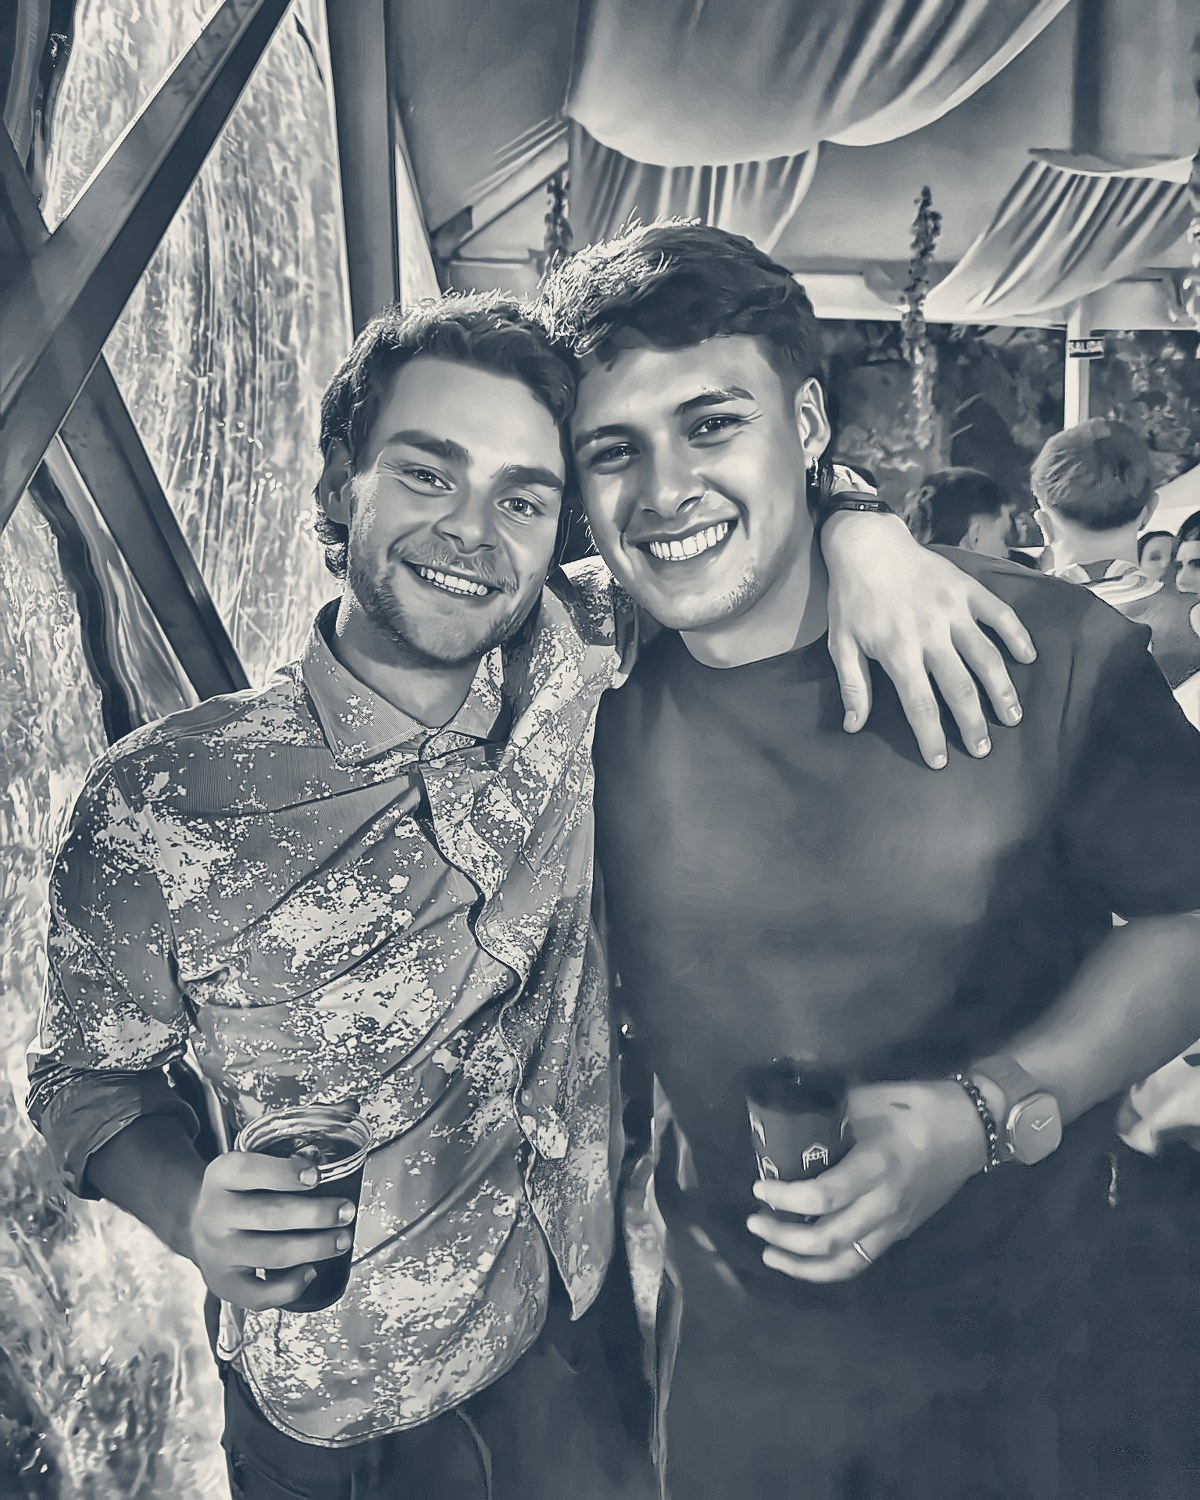
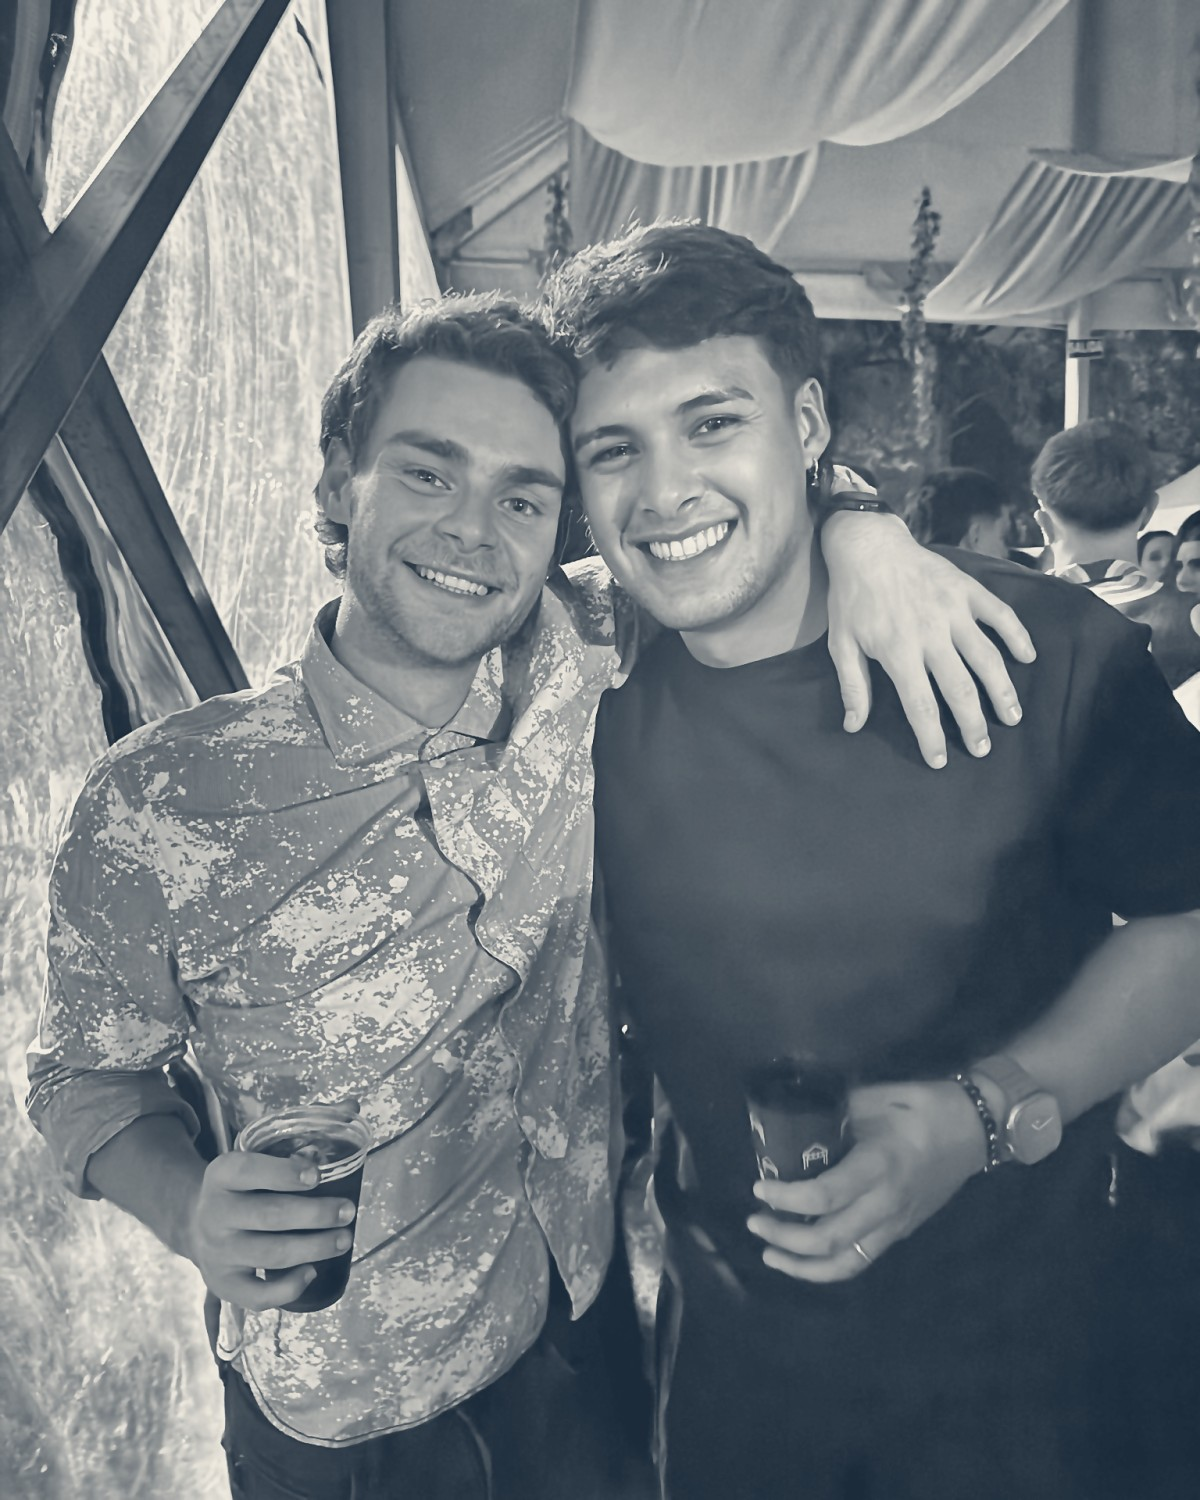
Add files via upload

diff --git a/index.html b/index.html
@@ -11,7 +11,7 @@
 <link rel="preconnect" href="https://fonts.googleapis.com">
 <link rel="preconnect" href="https://fonts.gstatic.com" crossorigin>
 <link rel="stylesheet" href="https://fonts.googleapis.com/css2?family=Ultra&family=Courier+Prime:ital,wght@0,400;0,700;1,400&display=swap">
-<link rel="stylesheet" href="css/styles.css">
+<link rel="stylesheet" href="css/styles.css?v=3">
 </head>
 <body>
 
@@ -166,7 +166,7 @@
 <section class="seccion nosotros azulejos" id="nosotros">
   <div class="wrap">
     <div class="grid">
-      <img class="foto" src="assets/img/facu-y-bruno-duotono.jpg" alt="Facu y Bruno, los creadores de Sifón" width="1200" height="1500">
+      <img class="foto" src="assets/img/facu-y-bruno-duotono.jpg?v=3" alt="Facu y Bruno, los creadores de Sifón" width="1200" height="1500">
       <div class="texto">
         <span class="etiqueta" style="color:var(--azul)">Sobre nosotros</span>
         <h2 style="color:var(--rojo)">¡Otra vuelta!</h2>
@@ -177,8 +177,8 @@
           <li><b>Después</b>Almacenes, bares y vinotecas.</li>
         </ol>
         <div class="firmas">
-          <div class="firma"><img class="avatar" src="assets/img/facu.jpg" alt="Facu" width="64" height="64"><div><strong>Facu</strong>Co-founder</div></div>
-          <div class="firma"><img class="avatar" src="assets/img/bruno.jpg" alt="Bruno" width="64" height="64"><div><strong>Bruno</strong>Co-founder</div></div>
+          <div class="firma"><img class="avatar" src="assets/img/facu.jpg?v=3" alt="Facu" width="64" height="64"><div><strong>Facu</strong>Co-founder</div></div>
+          <div class="firma"><img class="avatar" src="assets/img/bruno.jpg?v=3" alt="Bruno" width="64" height="64"><div><strong>Bruno</strong>Co-founder</div></div>
         </div>
       </div>
     </div>
@@ -254,7 +254,7 @@
   </div>
 </footer>
 
-<script src="js/config.js"></script>
-<script src="js/main.js"></script>
+<script src="js/config.js?v=3"></script>
+<script src="js/main.js?v=3"></script>
 </body>
 </html>

diff --git a/css/styles.css b/css/styles.css
@@ -168,6 +168,6 @@ footer .logo{font-size:36px}
 }
 
 /* Fotos */
-img.foto{display:block;width:100%;height:auto;object-fit:cover;padding:0}
+img.foto{display:block;width:100%;max-width:100%;height:auto;aspect-ratio:4/5;object-fit:cover;object-position:center top;padding:0;background:var(--papel)}
 .firma{display:flex;align-items:center;gap:14px}
-.avatar{width:64px;height:64px;border-radius:50%;object-fit:cover;border:3px solid var(--tinta);flex-shrink:0}
+.firma .avatar{width:64px;height:64px;border-radius:50%;object-fit:cover;border:3px solid var(--tinta);flex-shrink:0}

diff --git a/README.md b/README.md
@@ -98,6 +98,8 @@ Usa 90 ml de vermú y 30 ml de soda por vaso, y botellas de 750 ml. Si cambian l
 3. **Para subir archivos nuevos o reemplazarlos:** **Add file → Upload files** → arrastrá los archivos o carpetas → **Commit changes**. Si ya existe un archivo con el mismo nombre en la misma carpeta, lo reemplaza.
 4. Esperá 1-2 minutos y recargá la web (si no ves el cambio: Cmd+Shift+R).
 
+**Si no ves los cambios:** el navegador guarda copias de `styles.css`, `main.js` y las fotos. En `index.html` esos archivos se cargan con `?v=3` al final (ej. `css/styles.css?v=3`). Cuando cambies uno de ellos, subí ese número (`?v=4`) en `index.html` y así todos ven la versión nueva.
+
 ### Primera vez: activar GitHub Pages
 **Settings → Pages → Branch: `main` / `(root)` → Save.**
 
